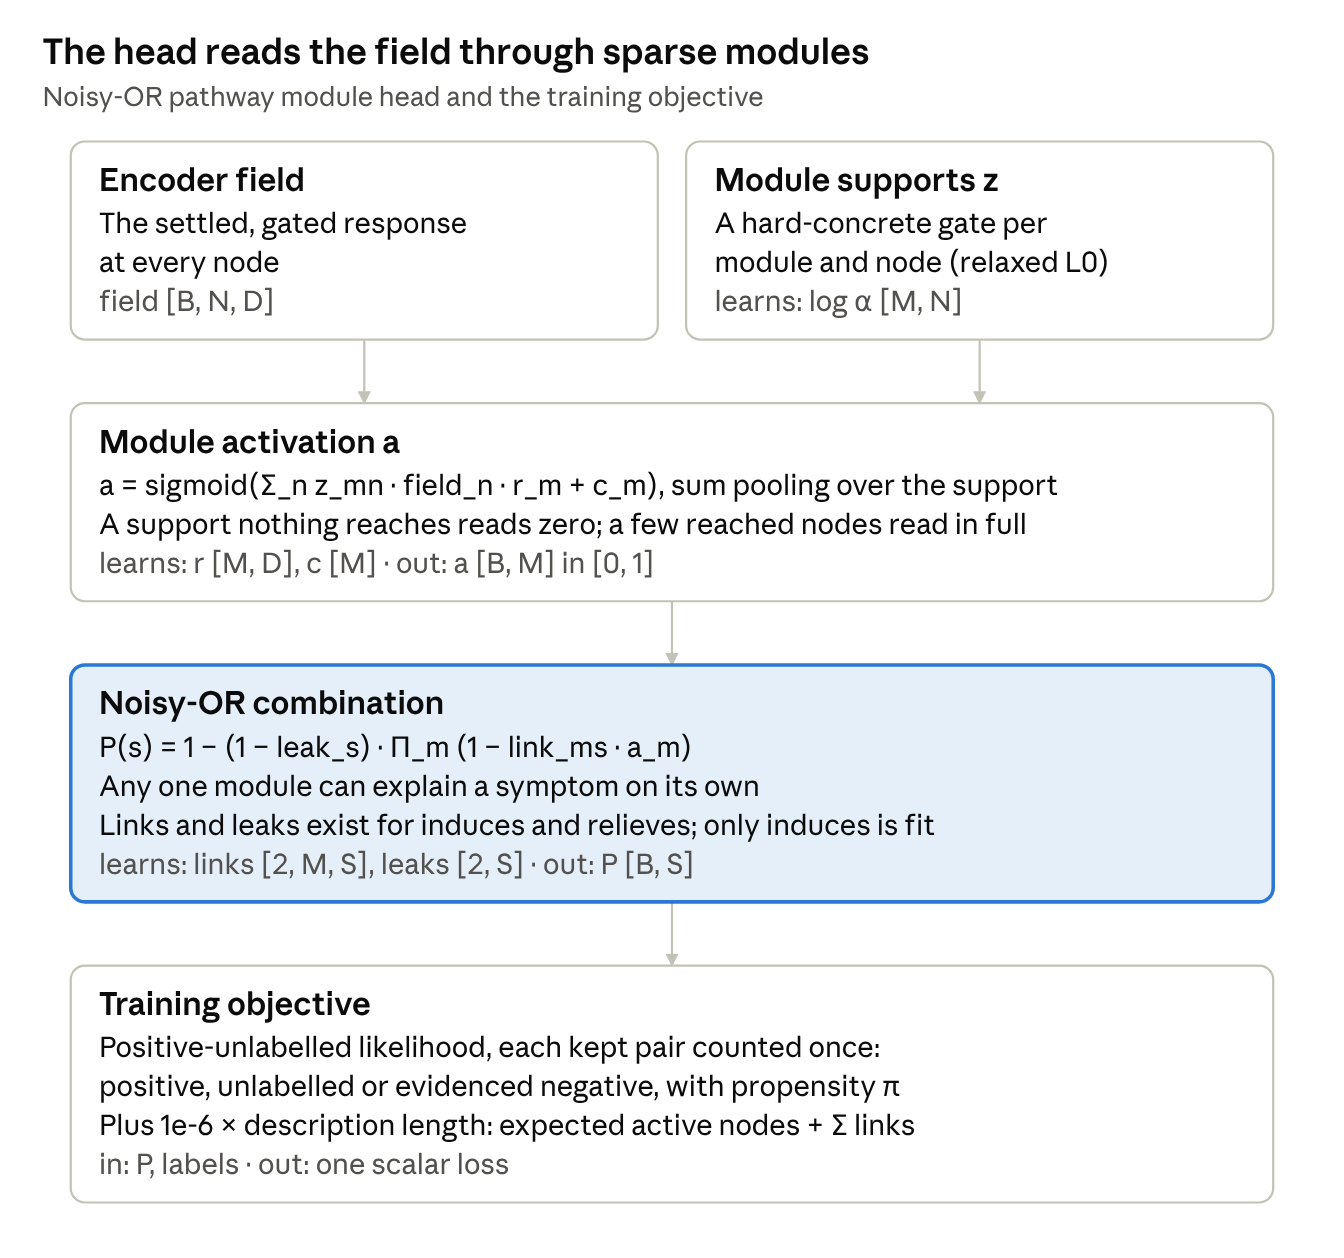
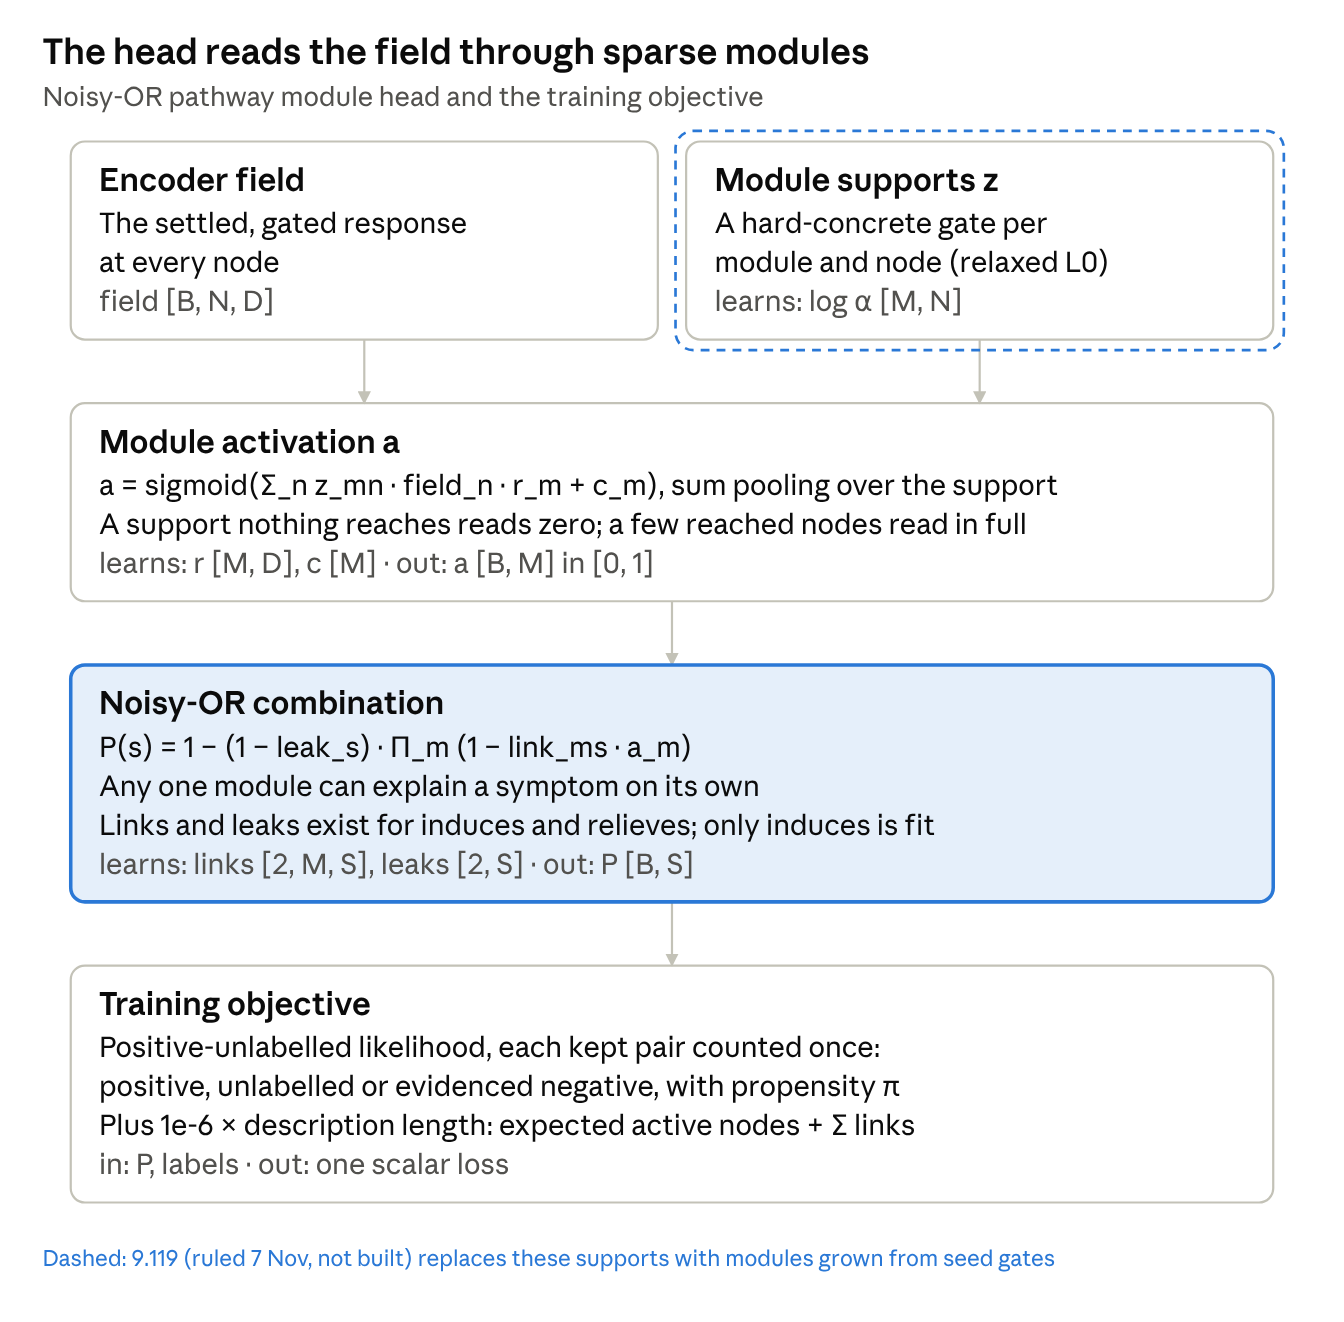
The study sheet's as-decided module diagram for 9.119, and the parameter count corrected
Study sheet (Claude Docs, revision 45), checked and corrected on 7 November 2026:
- a new diagram, "Modules, as decided (9.119)" (713638b8-497a), paired with the as-built
  module diagram 012dc8f5-8ee9, as the rule of 5 November requires for a decision that
  changes the architecture;
- the head diagram 15dbd45a-f218 marks its per-node supports dashed as replaced by 9.119;
- the parameter-count diagram 15448121-6479 corrected: the node gate reads 162 columns
  (138 descriptors and 24 structural), so 5,216 parameters and a total of 405,908, 98.2 per
  cent in the supports (it said 4,448, 405,140 and 98.4), with a note that 9.119 changes the
  supports.
configs/study_sheet_diagrams.json registers the pair and adds 9.119 to what the four depict;
docs/study_sheet.md and docs/study_sheet_figures/ carry the three new images.

Claude-Session: https://claude.ai/code/session_01RNHwqTkjjENH7yo98idnBU

Changed region(s): [[0.0312, 0.496, 0.9688, 0.961], [0.0312, 0.031, 0.9688, 0.465]]

diff --git a/docs/file_index.md b/docs/file_index.md
@@ -1,8 +1,8 @@
 # Every file under docs/ (generated by experiments/generate_file_index.py — do not edit by hand)
 
-Generated by `experiments/generate_file_index.py` on 2026-11-07 at commit d9031031-dirty from git ls-files docs, configs/documentation_registry.json, the repository's Python and shell sources; do not edit by hand.
+Generated by `experiments/generate_file_index.py` on 2026-11-07 at commit 457f231b-dirty from git ls-files docs, configs/documentation_registry.json, the repository's Python and shell sources; do not edit by hand.
 
-All 247 files git tracks under `docs/`, by kind. **This is the complete list; [docs/README.md](README.md) is the index of registered *documents* by topic**, and the register covers tracked Markdown only, so the files that are not Markdown appear here and nowhere else.
+All 266 files git tracks under `docs/`, by kind. **This is the complete list; [docs/README.md](README.md) is the index of registered *documents* by topic**, and the register covers tracked Markdown only, so the files that are not Markdown appear here and nowhere else.
 
 For a Markdown document the class is the register's, and says how far to trust it as a statement of the current state (`docs/documentation_process.md` defines them). For every other file the last column names the scripts and modules that mention its path. **That search is textual**: it finds a path written whole, in a default argument or a constant, and it does not find one assembled at run time, so an empty cell means no source names the path and not that nothing reads the file.
 
@@ -11,7 +11,7 @@ For a Markdown document the class is the register's, and says how far to trust i
 | Markdown documents | 196 |
 | Tables (CSV) | 16 |
 | Measurements and summaries (JSON) | 17 |
-| Figures (PNG) | 16 |
+| Figures (PNG) | 35 |
 | Bibliography | 1 |
 | Plain text | 1 |
 
@@ -261,7 +261,7 @@ The register holds 198 documents, of which 196 are under `docs/` and the rest ar
 | [rodent_readout_human_evidence_references.json](rodent_readout_human_evidence_references.json) | `experiments/map_rodent_readout_human_evidence.py` |
 | [untrained_symptom_degeneracy.json](untrained_symptom_degeneracy.json) | `experiments/label_review/untrained_symptom_degeneracy.py` |
 
-## Figures (PNG) (16)
+## Figures (PNG) (35)
 
 | file | named by |
 |---|---|
@@ -281,6 +281,25 @@ The register holds 198 documents, of which 196 are under `docs/` and the rest ar
 | [figures/plasma_carriage.png](figures/plasma_carriage.png) |  |
 | [figures/slice_baselines_and_models.png](figures/slice_baselines_and_models.png) |  |
 | [figures/slice_twin_comparisons.png](figures/slice_twin_comparisons.png) |  |
+| [study_sheet_figures/01_pipeline.png](study_sheet_figures/01_pipeline.png) |  |
+| [study_sheet_figures/02_fit_and_test.png](study_sheet_figures/02_fit_and_test.png) |  |
+| [study_sheet_figures/03_graph_as_built.png](study_sheet_figures/03_graph_as_built.png) |  |
+| [study_sheet_figures/04_graph_as_decided.png](study_sheet_figures/04_graph_as_decided.png) |  |
+| [study_sheet_figures/05_encoder.png](study_sheet_figures/05_encoder.png) |  |
+| [study_sheet_figures/06_noisy_or_head.png](study_sheet_figures/06_noisy_or_head.png) |  |
+| [study_sheet_figures/07_robustness_arms.png](study_sheet_figures/07_robustness_arms.png) |  |
+| [study_sheet_figures/08_propagation.png](study_sheet_figures/08_propagation.png) |  |
+| [study_sheet_figures/09_modules.png](study_sheet_figures/09_modules.png) |  |
+| [study_sheet_figures/10_curated_modules.png](study_sheet_figures/10_curated_modules.png) |  |
+| [study_sheet_figures/11_learned_module_names.png](study_sheet_figures/11_learned_module_names.png) |  |
+| [study_sheet_figures/12_parameter_count.png](study_sheet_figures/12_parameter_count.png) |  |
+| [study_sheet_figures/13_propagation_channels.png](study_sheet_figures/13_propagation_channels.png) |  |
+| [study_sheet_figures/14_membrane_potential_as_built.png](study_sheet_figures/14_membrane_potential_as_built.png) |  |
+| [study_sheet_figures/15_membrane_potential_as_decided.png](study_sheet_figures/15_membrane_potential_as_decided.png) |  |
+| [study_sheet_figures/16_timeline.png](study_sheet_figures/16_timeline.png) |  |
+| [study_sheet_figures/17_v5_labels.png](study_sheet_figures/17_v5_labels.png) |  |
+| [study_sheet_figures/18_soft_absences.png](study_sheet_figures/18_soft_absences.png) |  |
+| [study_sheet_figures/19_critical_paths.png](study_sheet_figures/19_critical_paths.png) |  |
 
 ## Bibliography (1)
 

diff --git a/docs/study_sheet.md b/docs/study_sheet.md
@@ -1,6 +1,6 @@
 # Perturbation-symptom modules: study sheet
 
-The owner's study sheet, exported from Claude Docs (https://claude.ai/artifact/RzVm4LjdeHmzzdSyzJ5j65). The doc is the version that is kept current; this file is its Markdown copy, refreshed in place by exporting it again (last from revision 44, 7 November 2026). The text is the doc's own Markdown export; the 19 diagrams, which that export leaves out, are rendered as PNG images in [`study_sheet_figures/`](study_sheet_figures/), each followed by its caption. From 27 October to 7 November 2026 the copy was a dated record, an export of revision 36 with an HTML page and 12 figures, filed under the date of that export; the owner asked on 7 November 2026 that the date be removed from the file names, and git holds that version.
+The owner's study sheet, exported from Claude Docs (https://claude.ai/artifact/RzVm4LjdeHmzzdSyzJ5j65). The doc is the version that is kept current; this file is its Markdown copy, refreshed in place by exporting it again (last from revision 45, 7 November 2026). The text is the doc's own Markdown export; the 20 diagrams, which that export leaves out, are rendered as PNG images in [`study_sheet_figures/`](study_sheet_figures/), each followed by its caption. From 27 October to 7 November 2026 the copy was a dated record, an export of revision 36 with an HTML page and 12 figures, filed under the date of that export; the owner asked on 7 November 2026 that the date be removed from the file names, and git holds that version.
 
 Oct 25, 2026 · @Bryan Nova
 
@@ -88,6 +88,10 @@ A module is a set of nodes the fit chooses, through a gate per node pushed towar
 ![noisy_or_pathway_module_model.py on main, --num-modules default 8; sufficiency from docs/physiological_adherence_review.md section 13](study_sheet_figures/09_modules.png)
 
 *noisy_or_pathway_module_model.py on main, --num-modules default 8; sufficiency from docs/physiological_adherence_review.md section 13*
+
+![modules, as decided · decision 9.119 ruled 7 Nov 2026 (option 2), not built; design questions open](study_sheet_figures/09b_modules_as_decided.png)
+
+*modules, as decided · decision 9.119 ruled 7 Nov 2026 (option 2), not built; design questions open*
 
 This is where the nosology would come from, and also where the clearest negative result sits. Modules overlap, so two symptoms become related when one module explains both. But the sufficiency test found the own-ablation interval excluding zero in 0 of 62 symptom-module rows, so no module yet explains any symptom on its own, which is the premise of the noisy-OR form failing on its own terms. Every symptom is also a monotone function of the same 8 activations, so untrained symptoms rank the perturbations identically, at correlation 1.000000.
 

diff --git a/docs/decision_history.md b/docs/decision_history.md
@@ -1,8 +1,8 @@
 # Decision history (generated by experiments/generate_decision_history.py — do not edit by hand)
 
-Generated by `experiments/generate_decision_history.py` on 2026-11-07 at commit 8f5227a0-dirty from the git history of docs/open_decisions.md; do not edit by hand.
+Generated by `experiments/generate_decision_history.py` on 2026-11-07 at commit 457f231b-dirty from the git history of docs/open_decisions.md; do not edit by hand.
 
-When each decision of `docs/open_decisions.md` was recorded and when it closed, read from the 276 versions of the log in the git history (plus the working tree when it differs from HEAD). The commit that first holds a row is the earliest the decision can have been recorded; a date written inside the row is the author's claim and is not read here. A closed decision keeps its id, struck through, so "dropped" means an id the log once carried and no longer does, which is the defect this file exists to show.
+When each decision of `docs/open_decisions.md` was recorded and when it closed, read from the 277 versions of the log in the git history (plus the working tree when it differs from HEAD). The commit that first holds a row is the earliest the decision can have been recorded; a date written inside the row is the author's claim and is not read here. A closed decision keeps its id, struck through, so "dropped" means an id the log once carried and no longer does, which is the defect this file exists to show.
 
 **Now:** 107 open, 65 closed, 2 dropped. 17 of the closed decisions were recorded and closed in the same commit, which is the recording lag the log's own header describes.
 

diff --git a/docs/registered_core.md b/docs/registered_core.md
@@ -1,6 +1,6 @@
 # The registered core (generated by experiments/generate_registered_core.py — do not edit by hand)
 
-Generated by `experiments/generate_registered_core.py` on 2026-11-07 at commit 8f5227a0-dirty from configs/registered_rules.json, docs/open_decisions.md, docs/preregistration.md; do not edit by hand.
+Generated by `experiments/generate_registered_core.py` on 2026-11-07 at commit 457f231b-dirty from configs/registered_rules.json, docs/open_decisions.md, docs/preregistration.md; do not edit by hand.
 
 Every registered rule of this project, 12 of them, with the value in force, the reason the configuration gives for it, the decisions and amendment items its text names and the code that holds it. This is the short way into the registration: it restates `configs/registered_rules.json` and resolves its references, and it adds nothing of its own, so where it is thin the configuration is thin. The references are the ones the rule's own text names, which can include an item the rule replaced rather than the one that set it: `membrane_potential_build` names item 13 because item 35 superseded it.
 

diff --git a/docs/status.md b/docs/status.md
@@ -1,6 +1,6 @@
 # Status (generated by experiments/generate_status.py — do not edit by hand)
 
-Generated by `experiments/generate_status.py` on 2026-11-07 at commit d9031031-dirty from data/releases/*/MANIFEST.json, configs/registered_rules.json, configs/documentation_registry.json, the git log; do not edit by hand.
+Generated by `experiments/generate_status.py` on 2026-11-07 at commit 457f231b-dirty from data/releases/*/MANIFEST.json, configs/registered_rules.json, configs/documentation_registry.json, the git log; do not edit by hand.
 
 What is current in this repository, read from the release manifests, `configs/registered_rules.json`, the git history of the decision log and the document register. Nothing here describes a container, a session or a running job: that state is on a machine's disk (`bash scripts/resume_jobs.sh --status`), and a committed statement about it is stale the moment another machine reads it. The commit this page was generated at is in the stamp above; `git log -1` says where the code is now.
 

diff --git a/docs/README.md b/docs/README.md
@@ -1,6 +1,6 @@
 # Documentation (generated by experiments/generate_docs_index.py — do not edit by hand)
 
-Generated by `experiments/generate_docs_index.py` on 2026-11-07 at commit d9031031-dirty from configs/documentation_registry.json, each registered document's first heading; do not edit by hand.
+Generated by `experiments/generate_docs_index.py` on 2026-11-07 at commit 457f231b-dirty from configs/documentation_registry.json, each registered document's first heading; do not edit by hand.
 
 This project builds a signed, typed physiology graph (genes and the proteins they encode, metabolites and reactions, signalling, transcription, electrical and drug-mechanism layers, brain cell classes) and models how a perturbation, an allele of a gene or a drug, propagates through it to psychiatric symptom constructs, so that the learned mechanisms can serve as the basis of a new psychiatric nosology. The [repository README](../README.md) is the overview; this page is the map of the documents.
 

diff --git a/docs/amendment_history.md b/docs/amendment_history.md
@@ -1,6 +1,6 @@
 # Amendment history (generated by experiments/generate_amendment_history.py — do not edit by hand)
 
-Generated by `experiments/generate_amendment_history.py` on 2026-11-07 at commit 8f5227a0-dirty from the git log, configs/registered_rules.json; do not edit by hand.
+Generated by `experiments/generate_amendment_history.py` on 2026-11-07 at commit 457f231b-dirty from the git log, configs/registered_rules.json; do not edit by hand.
 
 Every change to a registered rule since the baseline, taken from `Amends:` trailers in the git log. Edits to this file are overwritten by the next run; change a commit message, or add a trailer to a new commit, instead.
 
